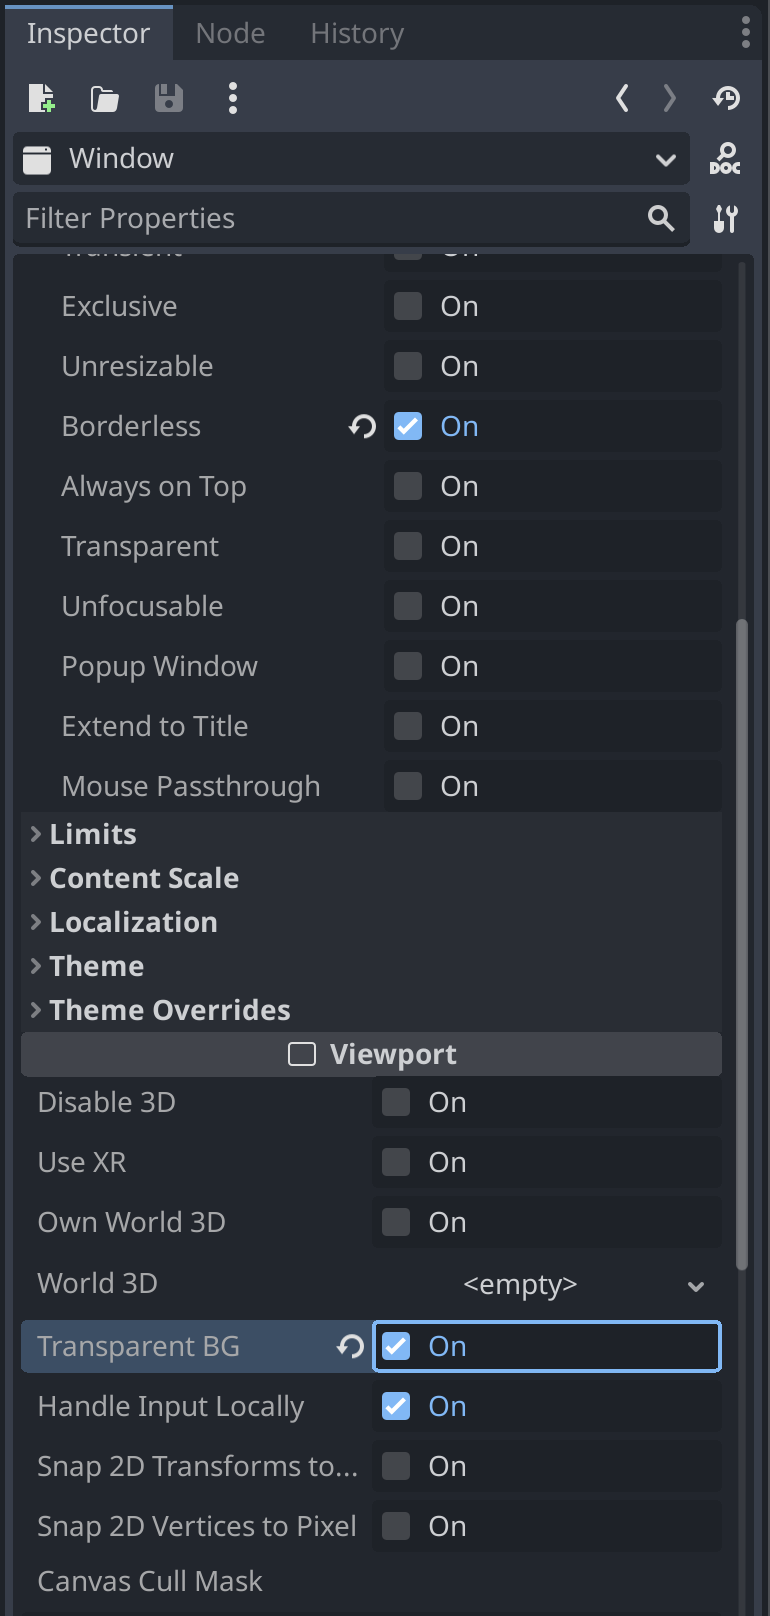
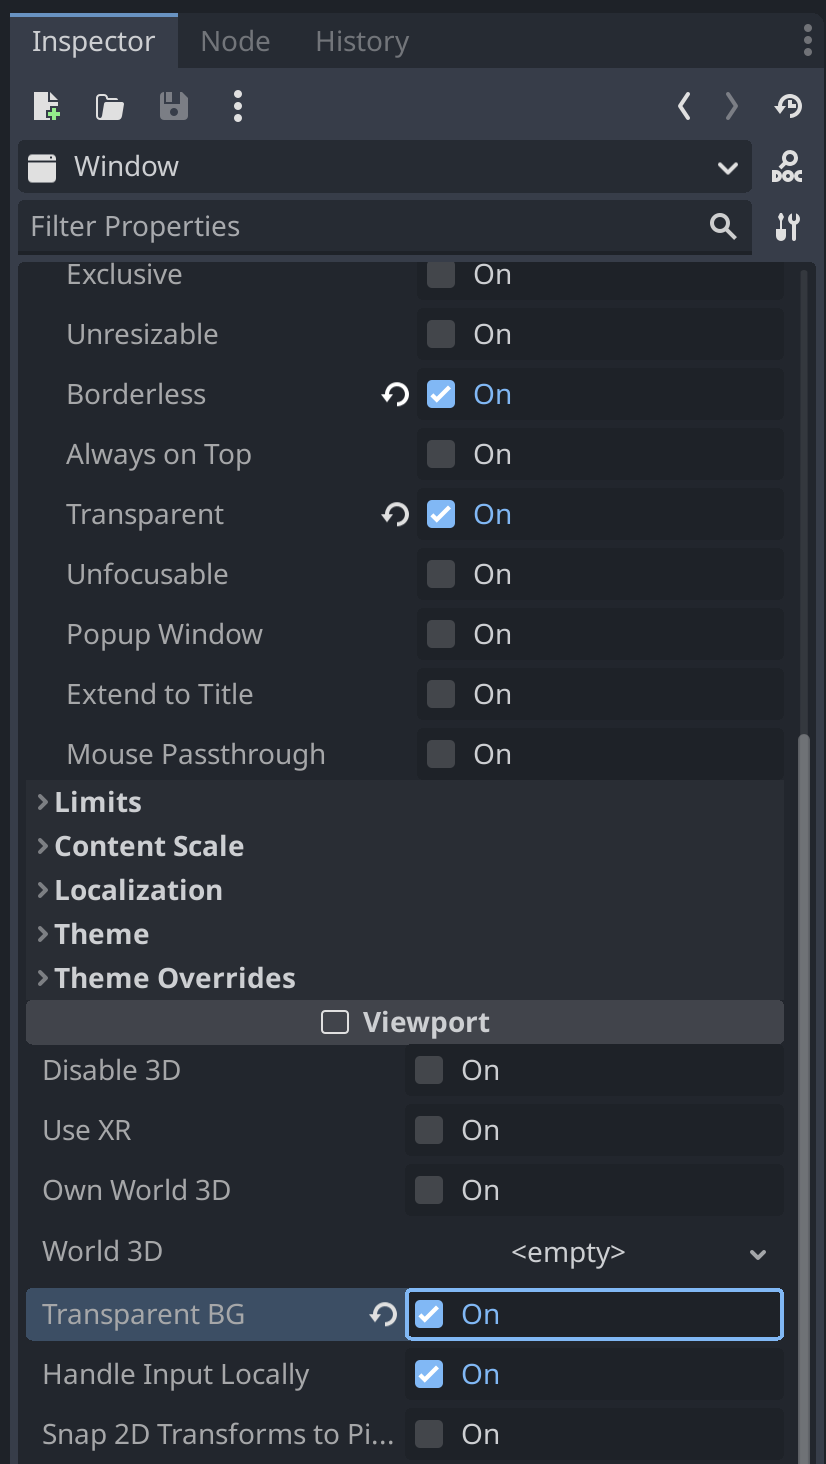
Update post on Godot transparent windows (#18)

diff --git a/src/assets/css/post.css b/src/assets/css/post.css
@@ -162,6 +162,18 @@
   text-decoration: none;
 }
 
+.post .youtube-embed {
+  width: 100%;
+  padding-bottom: 56.25%;
+  position: relative;
+}
+
+.post .youtube-embed iframe {
+  position: absolute;
+  width: 100%;
+  height: 100%;
+}
+
 html[data-theme='dark'] .post img[src$='.gif'] {
   mix-blend-mode: screen;
   filter: invert(100%) hue-rotate(190deg) brightness(120%);

diff --git a/src/_posts/2023-06-14-godot-transparent-windows/index.md b/src/_posts/2023-06-14-godot-transparent-windows/index.md
@@ -1,39 +1,42 @@
 <!-- thumbnail: ./window_on_window.gif -->
 <!-- twitterSocialImage: ./window_on_window.gif -->
+<!-- dateUpdated: 2023-08-20 -->
 
 # How to make transparent windows in Godot
 
 ![Illustration of a transparent window on top of another window](./window_on_window.gif)
 
-⚠ This guide is for Godot 4.
+Here's how to make the [main window](#make-the-main-window-transparent) or [a window node](#make-a-window-node-transparent) transparent in Godot 4 without using code. Unlocking the potential to make your own [BonziBuddy](https://en.wikipedia.org/wiki/BonziBuddy).
+
+## Make the main window transparent
+
+1. Open Project Settings
+2. Ensure `Advanced Settings` is toggled on
+3. Go to `Display > Window > Size`
+4. Enable the `Transparent` **and** the `Borderless` toggle <a href="#footnote-1">[1]</a>
+5. Go to `Display > Window > Per Pixel Transparency`
+6. Enable the `Allowed` toggle
+
+![Screenshot of the per pixel transparency setting](./sub_pixel_transparent_screenshot.png)
+
+5. Still in Project Settings, go to `Rendering > Viewport`
+6. Enable the `Transparent Background` toggle
+
+![Screenshot of the transparent viewport background setting](./transparent_background_screenshot.png)
 
 ## Make a Window node transparent
 
 1. Select the Window node you want to make transparent
 2. In the Inspector panel, go to `Window > Flags`
-3. Enable the `Borderless` toggle <a href="#footnote-1">[1]</a>
+3. Enable the `Borderless` and `Transparent` toggle
 4. Scroll down to the Viewport section in the Inspector
 5. Enable the `Transparent BG` toggle
 
 <img src="./inspector_screenshot.png" width="385"/>
 
-## Make the main window transparent
+If you want Window nodes to appear outside the main window, go into Project Settings and turn off `Display > Window > Subwindows > Embedded Subwindows`.
 
-This will make the desktop visible through the main window, unlocking the potential to make your own [BonziBuddy](https://en.wikipedia.org/wiki/BonziBuddy).
-
-1. Open Project Settings
-2. Ensure `Advanced Settings` is toggled on
-3. Go to `Display > Window > Size`
-4. Enable the `Transparent` toggle <a href="#footnote-2">[2]</a>
-5. Go to `Display > Window > Per Pixel Transparency`
-6. Enable the `Allowed` toggle
-
-![](./sub_pixel_transparent_screenshot.png)
-
-5. Still in Project Settings, go to `Rendering > Viewport`
-6. Enable the `Transparent Background` toggle
-
-![](./transparent_background_screenshot.png)
+![Screenshot of the embedded subwindows setting](./subwindows_screenshot.png)
 
 ## Other resources
 
@@ -43,11 +46,7 @@ This will make the desktop visible through the main window, unlocking the potent
 
 <ol>
   <li id="footnote-1">
-    This will make <strong>embedded</strong> windows transparent. If you are using native non-embedded windows, then you'll need to enable <code>Transparent</code> instead of <code>Borderless</code>.
-  </li>
-
-  <li id="footnote-2">
-    This <em>allows</em> a window to be transparent but does not make it transparent.
+    The <code>Borderless</code> setting is required for Windows and Linux, without it the window border and title bar will show. On macOS it isn't required for some reason.
   </li>
 </ol>
 
